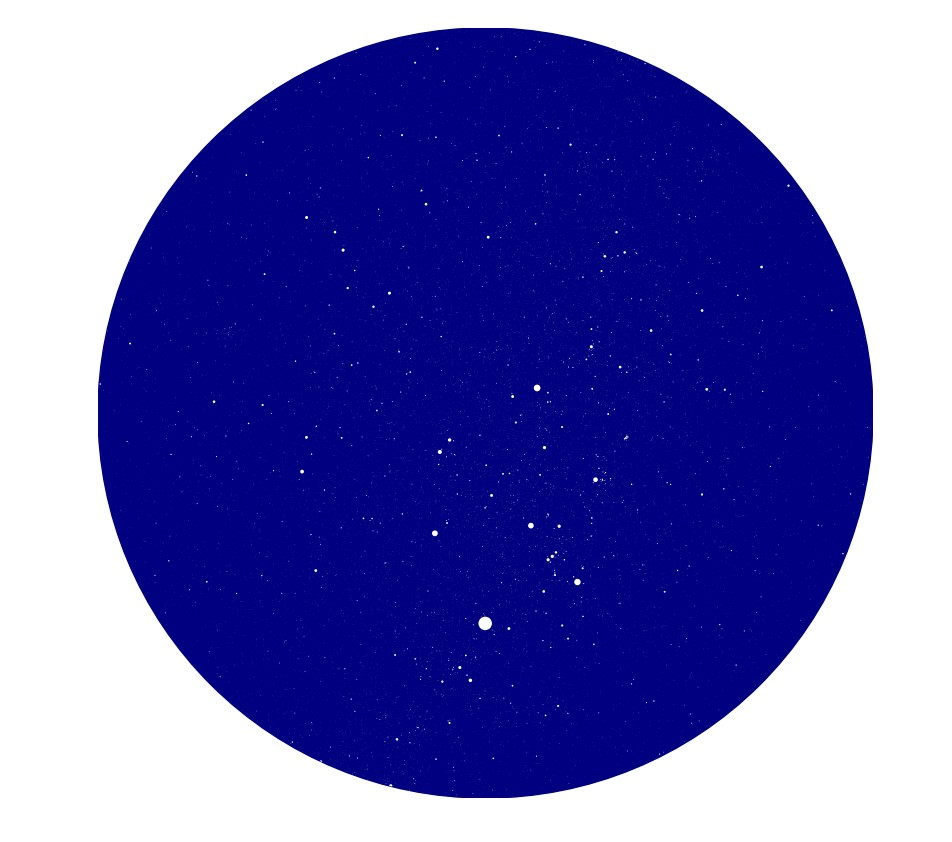
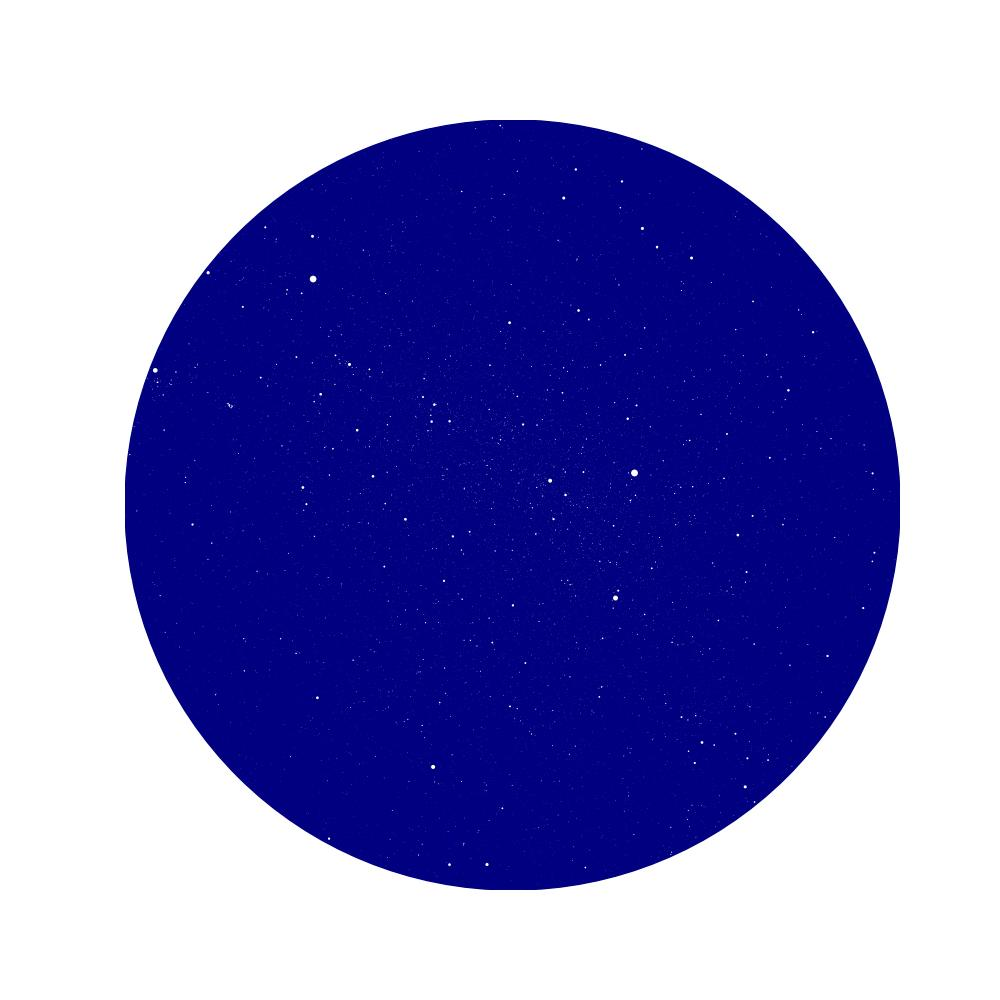
functional with input params

diff --git a/app/App.py b/app/App.py
@@ -1,8 +1,23 @@
 import streamlit as st
-import datetime
+from datetime import datetime
 import requests
 from streamlit_card import card
 from PIL import Image
+
+from geopy import Nominatim
+from timezonefinder import TimezoneFinder
+from tzwhere import tzwhere
+from pytz import timezone, utc
+
+import numpy as np
+import functools
+import matplotlib.pyplot as plt
+from matplotlib.collections import LineCollection
+from matplotlib.patches import Circle
+
+from skyfield.api import Star, load, wgs84
+from skyfield.data import hipparcos
+from skyfield.projections import build_stereographic_projection
 
 if 'loggedin' not in st.session_state:
     st.session_state['loggedin'] = False
@@ -13,9 +28,38 @@ if 'date_input' not in st.session_state:
 if 'loc_input' not in st.session_state:
     st.session_state['loc_input'] = ""
 
-def determine_sign(date_input):
-    sign = "Leo"
-    return sign
+def determine_sign(date):
+   # checks month and date within the valid range
+   # of a specified zodiac
+   day = date.day
+   month = date.month
+   astro_sign = ""
+
+   if month == 12:
+      astro_sign = 'Sagittarius' if (day < 22) else 'capricorn'
+   elif month == 1:
+      astro_sign = 'Capricorn' if (day < 20) else 'aquarius'
+   elif month == 2:
+      astro_sign = 'Aquarius' if (day < 19) else 'pisces'
+   elif month == 3:
+      astro_sign = 'Pisces' if (day < 21) else 'aries'
+   elif month == 4:
+      astro_sign = 'Aries' if (day < 20) else 'taurus'
+   elif month == 5:
+      astro_sign = 'Taurus' if (day < 21) else 'gemini'
+   elif month == 6:
+      astro_sign = 'Gemini' if (day < 21) else 'cancer'
+   elif month == 7:
+      astro_sign = 'Cancer' if (day < 23) else 'leo'
+   elif month == 8:
+      astro_sign = 'Leo' if (day < 23) else 'virgo'
+   elif month == 9:
+      astro_sign = 'Virgo' if (day < 23) else 'libra'
+   elif month == 10:
+      astro_sign = 'Libra' if (day < 23) else 'scorpio'
+   elif month == 11:
+      astro_sign = 'scorpio' if (day < 22) else 'sagittarius'
+   return astro_sign
 
 def horoscope_endpoint(sign):
     timePeriod= 'today'
@@ -36,10 +80,98 @@ def horoscope_endpoint(sign):
 
     return response.json()
  
+def map_gen(day, zip_code):
+    # load celestial data
+    tf = TimezoneFinder()
+    # de421 shows position of earth and sun in space
+    eph = load('de421.bsp')
+
+    # hipparcos dataset contains star location data
+    with load.open(hipparcos.URL) as f:
+        stars = hipparcos.load_dataframe(f)
+
+    location = zip_code
+    when = str(day) + ' 00:00'
+
+    # get latitude and longitude of our location 
+    locator = Nominatim(user_agent='akshitha')
+    location = locator.geocode(location)
+    lat, long = location.latitude, location.longitude
+
+    # convert date string into datetime object
+    dt = datetime.strptime(when, '%Y-%m-%d %H:%M')
+
+    # define datetime and convert to utc based on our timezone
+    timezone_str = tf.timezone_at(lng=long, lat=lat)
+    local = timezone(timezone_str)
+
+    # get UTC from local timezone and datetime
+    local_dt = local.localize(dt, is_dst=None)
+    utc_dt = local_dt.astimezone(utc)
+
+
+    # find location of earth and sun and set the observer position
+    sun = eph['sun']
+    earth = eph['earth']
+
+    # define observation time from our UTC datetime
+    ts = load.timescale()
+    t = ts.from_datetime(utc_dt)
+
+    # define an observer using the world geodetic system data
+    observer = wgs84.latlon(latitude_degrees=lat, longitude_degrees=long).at(t)
+
+    # define the position in the sky where we will be looking
+    position = observer.from_altaz(alt_degrees=90, az_degrees=0)
+
+    # center the observation point in the middle of the sky
+    ra, dec, distance = observer.radec()
+    center_object = Star(ra=ra, dec=dec)
+
+    # find where our center object is relative to earth and build a projection with 180 degree view
+    center = earth.at(t).observe(center_object)
+    projection = build_stereographic_projection(center)
+    field_of_view_degrees = 180.0
+
+    # calculate star positions and project them onto a plain space
+    star_positions = earth.at(t).observe(Star.from_dataframe(stars))
+    stars['x'], stars['y'] = projection(star_positions)
+
+    chart_size = 10
+    max_star_size = 100
+    limiting_magnitude = 10
+
+    bright_stars = (stars.magnitude <= limiting_magnitude)
+    magnitude = stars['magnitude'][bright_stars]
+
+    fig, ax = plt.subplots(figsize=(chart_size, chart_size))
+    
+    border = plt.Circle((0, 0), 1, color='navy', fill=True)
+    ax.add_patch(border)
+
+    marker_size = max_star_size * 10 ** (magnitude / -2.5)
+
+    ax.scatter(stars['x'][bright_stars], stars['y'][bright_stars],
+           s=marker_size, color='white', marker='.', linewidths=0, 
+           zorder=2)
+
+    horizon = Circle((0, 0), radius=1, transform=ax.transData)
+    for col in ax.collections:
+        col.set_clip_path(horizon)
+
+
+    # other settings
+    ax.set_xlim(-1, 1)
+    ax.set_ylim(-1, 1)
+    plt.axis('off')
+
+    #plt.show()
+    plt.savefig("map.jpg")
+
 if st.session_state['loggedin']==False:
     with st.form("my_form"):
         st.session_state['name_input'] = st.text_input("Enter name")
-        st.session_state['date_input'] = st.date_input("When's your birthday", datetime.date(2019, 7, 6))
+        st.session_state['date_input'] = st.date_input("Your DOB", value=None)
         st.session_state['loc_input'] = st.text_input("Location by Zip")
 
         # Every form must have a submit button.
@@ -51,6 +183,7 @@ if st.session_state['loggedin']==False:
     
 elif st.session_state['loggedin']==True:
     st.header("Hello, " + str(st.session_state['name_input']) + ".")
+    st.write(st.session_state['date_input'])
     sign = determine_sign(st.session_state['date_input'])
     st.write(sign.upper())
 
@@ -59,6 +192,7 @@ elif st.session_state['loggedin']==True:
     st.write("A DAY OF REFLECTION")
     st.write(horoscope)
 
+    map_gen(day=st.session_state['date_input'], zip_code=st.session_state['loc_input'])
     image = Image.open('map.jpg')
-    st.image(image, caption='The Sky When You Were Born')
+    st.image(image, caption='The Sky on The Day You Were Born')
         
